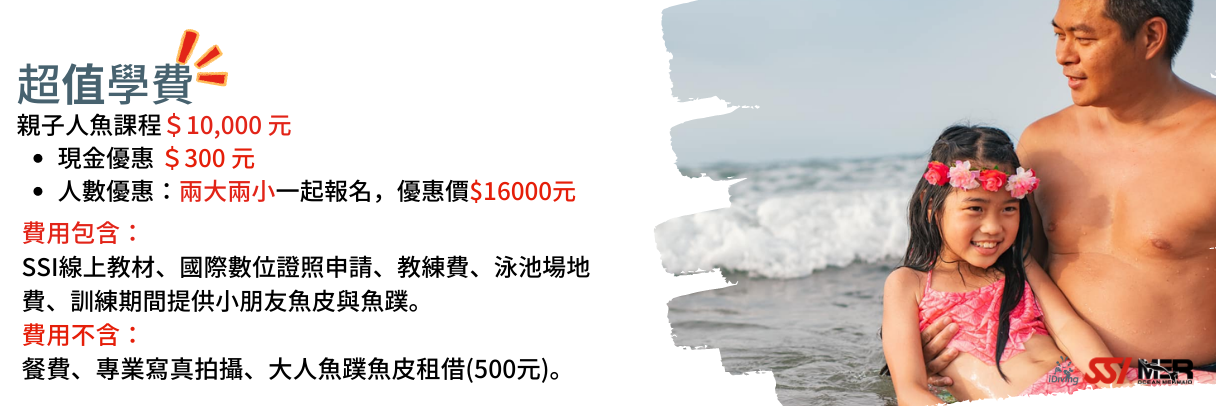
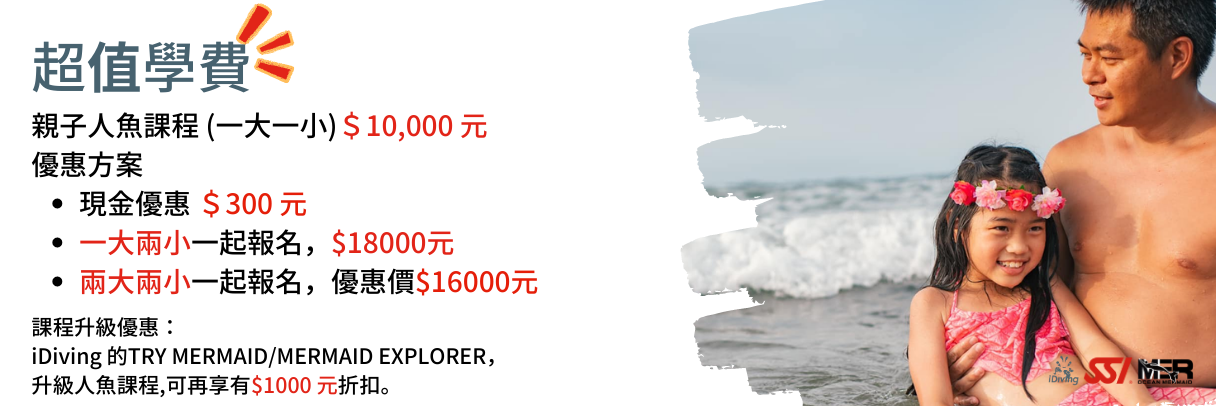
課程內容修正 * 親子美人魚 換圖 * ER 課程 學費內容修改

diff --git a/src/app/pages/coc100/coc100.component.html b/src/app/pages/coc100/coc100.component.html
@@ -170,8 +170,8 @@
                             <hr>
                             <ul class="fs-6">
                                 <li style="color: green;">定價： 35000，直上至三合一混合氣課程：41000 元。</li>
-                                <li>現金優惠，送技潛記事本。</li>
-                                <li>學員優惠：iDiving的減壓潛水員額外贈送30M 滾輪浮力袋組或側掛綁帶。</li>
+                                <li>現金優惠：送技潛記事本。</li>
+                                <li>證照優惠：iDiving的減壓潛水員額外贈送30M 滾輪浮力袋組或側掛綁帶。</li>
                                 <li style="color: red;">以上現金優惠、證照優惠可合併使用。</li>
                                 <li>費用包含：SSI數位教材、國際數位證照申請、教練費、旅遊平安保險、一趟船潛3000元。</li>
                                 <li>費用不含：裝備租借、海洋實習交通、用餐費用與移地至墾丁小琉球結訓之相關費用。</li>

diff --git a/src/app/pages/cfd130/cfd130.component.html b/src/app/pages/cfd130/cfd130.component.html
@@ -840,6 +840,8 @@
                             </table>
                             <br>
                             <img src="../../../../assets/Image/Data/MMParentChild_05.png" width="99%" style="display:block; margin:auto;" />
+                            <br>
+                            <img src="../../../../assets/Image/Data/MMParentChild_06.png" width="99%" style="display:block; margin:auto;" />
                         </div>
                         <!-- 親子人魚自由潛水 報名方式 -->
                         <app-paymentmethod></app-paymentmethod>
